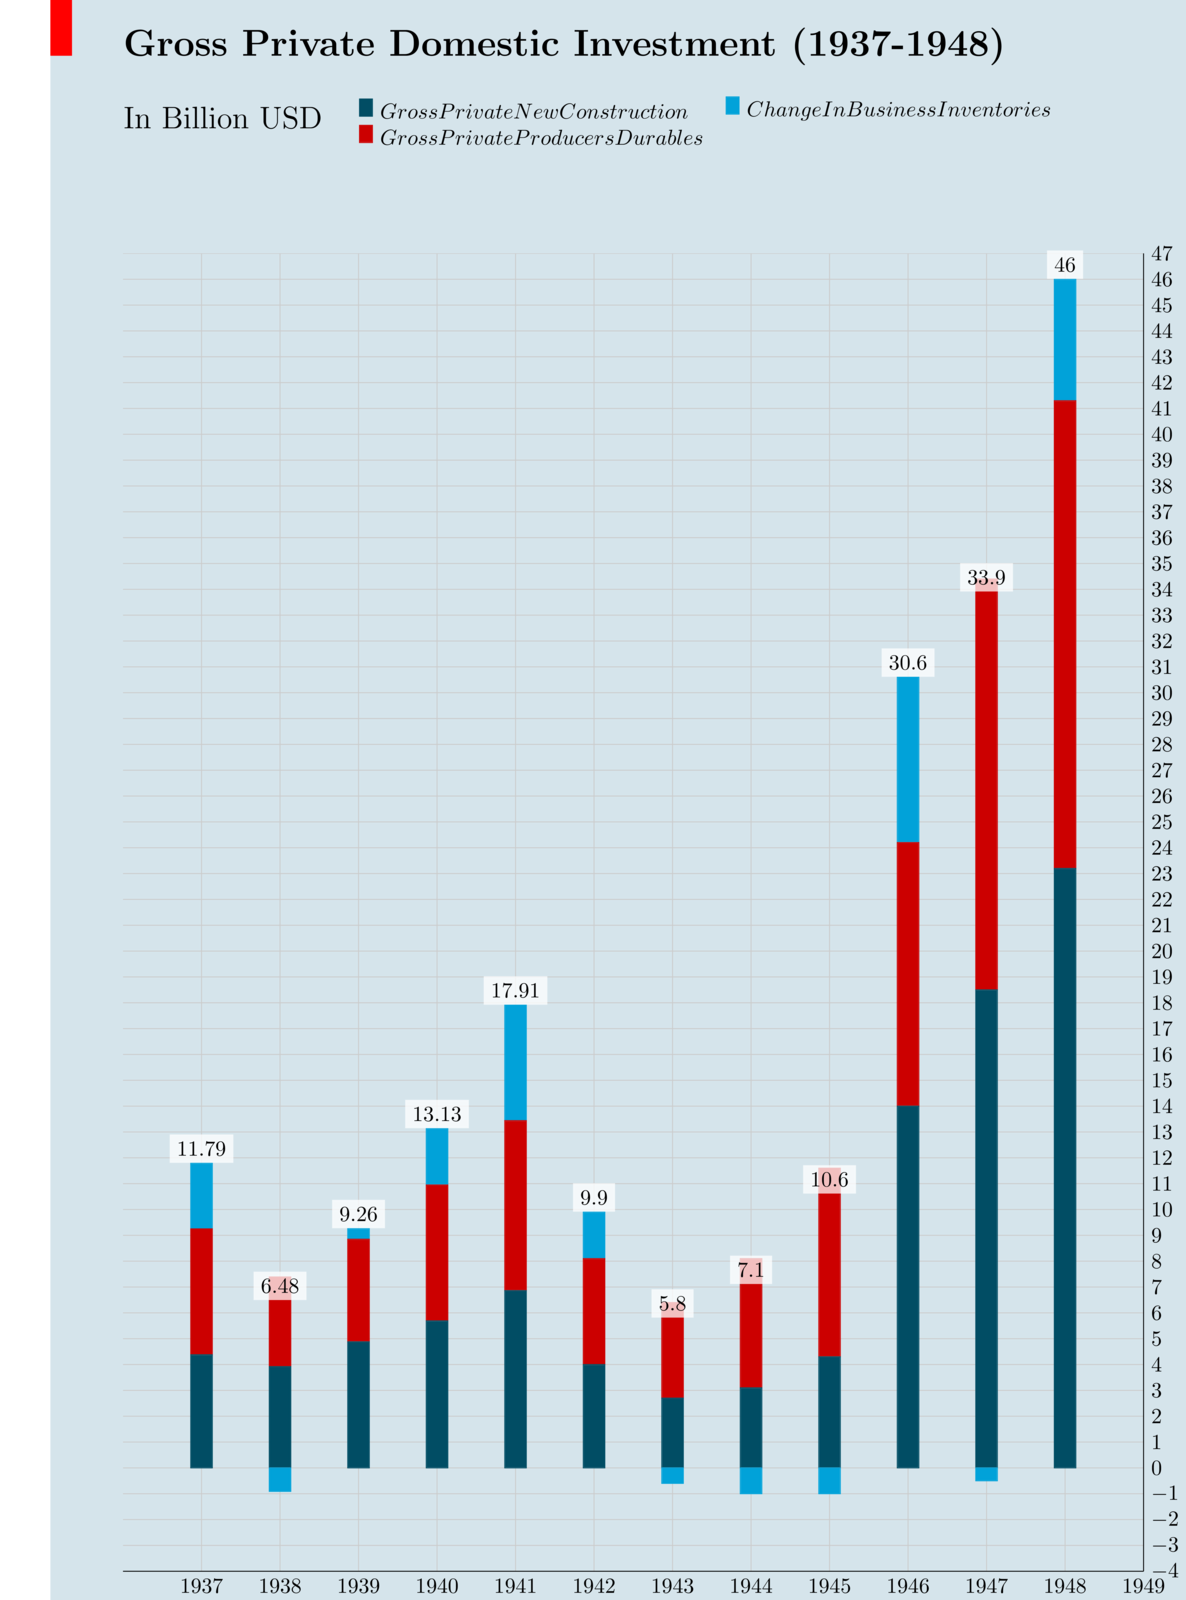
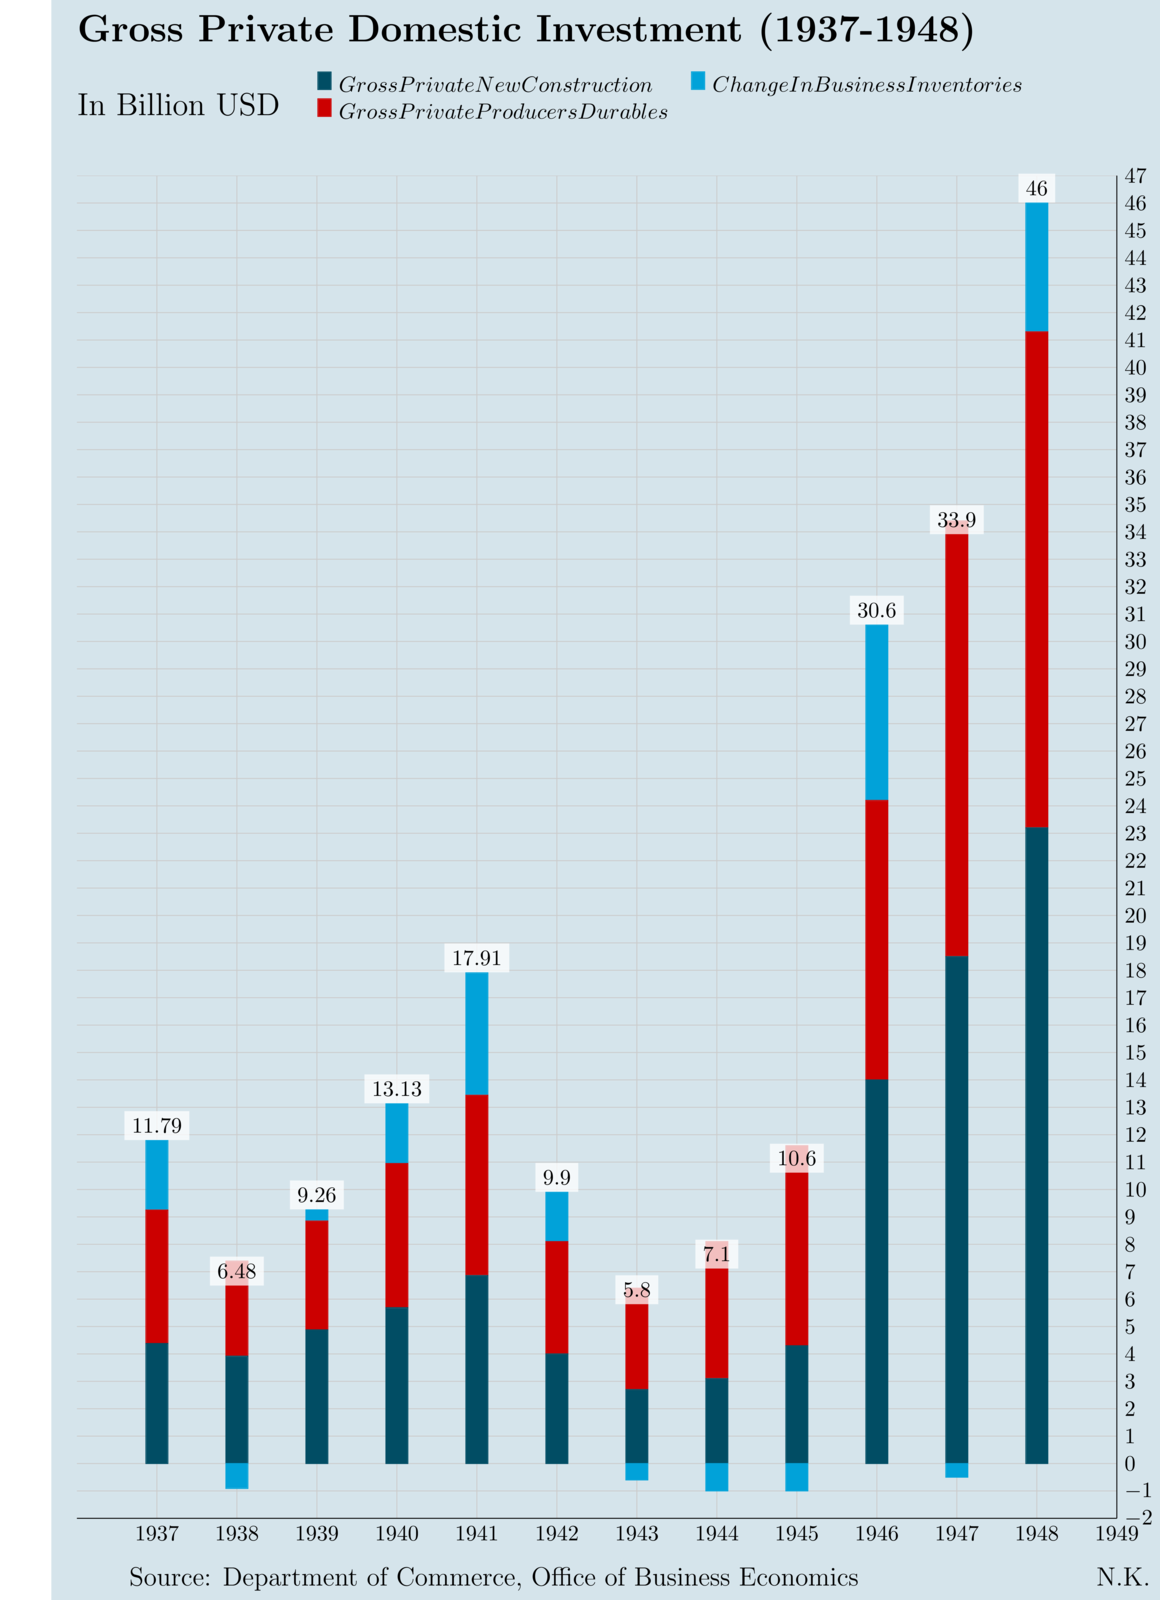
update GPDI during ww2

Changed region(s): [[0.0931, 0.0938, 0.931, 1.0], [0.031, 0.0, 0.869, 0.0938], [0.869, 0.0938, 0.9931, 1.0]]

diff --git a/ww2.tex b/ww2.tex
@@ -37,9 +37,12 @@
         grid style=gray!50,
 	legend style={draw=none,fill=none,at={(-0.05,1.07)},anchor=west,font=\large},
         extra description/.code={
-            \fill [red] (-0.05,1.15) rectangle +(-1em,6ex);
-            \node [anchor=base west, inner sep=0pt] at (0,1.15) {\LARGE\textbf{#1}};
-            \node [anchor=base west, inner sep=0pt] at (0,1.095) {\Large In Billion USD };
+	    \node [anchor=base west, inner sep=0pt] at (-0.025,1.13) {\large};
+	    \node [anchor=base west, inner sep=0pt] at (0.98,-0.05) {\large N.K.};
+	    \node [anchor=base west, inner sep=0pt] at (0.05,-0.05) {\large Source: Department of Commerce, Office of Business Economics};
+	    \node [anchor=base west, inner sep=0pt] at (1,-0.06) {\large};
+            \node [anchor=base west, inner sep=0pt] at (0,1.10) {\LARGE\textbf{#1}};
+            \node [anchor=base west, inner sep=0pt] at (0,1.045) {\Large In Billion USD };
         },
     },
     economist/.default={},
@@ -67,10 +70,10 @@
 	axis y line=right,
 	axis x line=bottom,
 	xtick={1937,1938,...,1950},
-	ytick={-4,-3,-2,-1,0,...,55},
+	ytick={-2,-1,0,...,55},
 	xmin = 1936,
 	xmax = 1949,
-	ymin = -4,
+	ymin = -2,
 	ymax = 47,
        legend columns=-1
 	]
@@ -126,11 +129,11 @@
 \label{s3}
 \end{axis}
 
-\node [draw=none,fill=none] at (rel axis cs: 0.40,1.1) {\shortstack[l]{
+\node [draw=none,fill=none] at (rel axis cs: 0.40,1.06) {\shortstack[l]{
 \ref{s1} $Gross Private New Construction$ \\
 \ref{s2} $Gross Private Producers Durables$}};
 
-\node [draw=none,fill=none] at (rel axis cs: 0.75,1.11) {\shortstack[l]{
+\node [draw=none,fill=none] at (rel axis cs: 0.75,1.0685) {\shortstack[l]{
 \ref{s3} $Change In Business Inventories$}};
 
 \begin{axis}[axis lines=none,
@@ -143,10 +146,10 @@
 	axis y line=right,
 	axis x line=center,
 	xtick={1937,1938,...,1950},
-	ytick={-4,-3,-2,-1,0,...,55},
+	ytick={-2,-1,0,...,55},
 	xmin = 1936,
 	xmax = 1949,
-	ymin = -4,
+	ymin = -2,
 	ymax = 47
 	]
 \addplot [CBI,fill=CBI] coordinates {(1938,-0.91)(1943,-0.6)(1944,-1)
